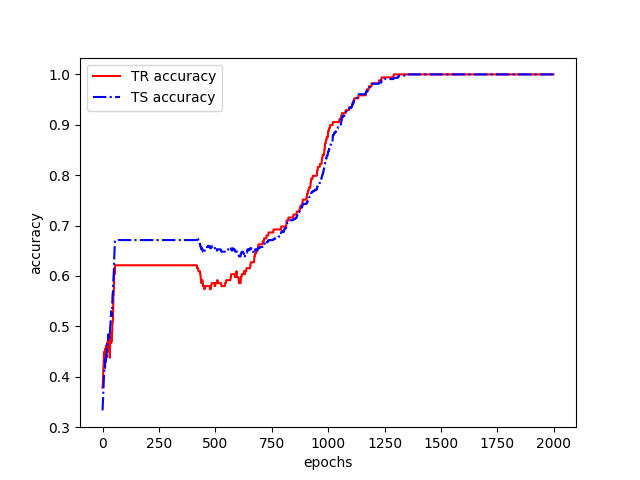
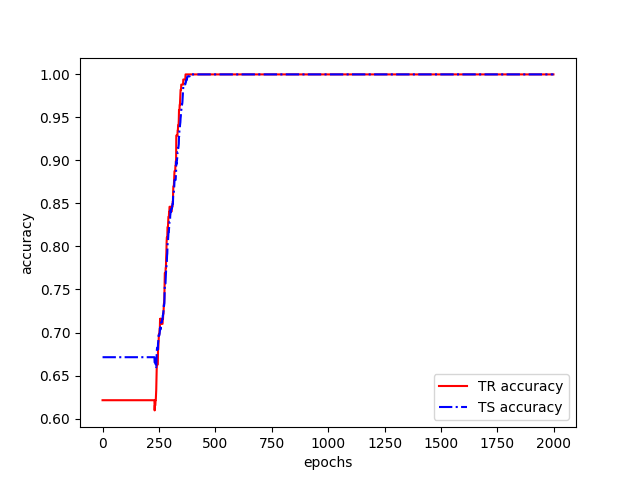
fix

diff --git a/test_cup.py b/test_cup.py
@@ -6,7 +6,7 @@ from utility import write_results
 # initialize parameters
 path_tr = 'data/cup/ML-CUP19-TR.csv'
 path_ts = 'data/cup/ML-CUP19-TS.csv'
-path_result_randomsearch = 'out/monks/monk2/randomsearch.csv'
+path_result_randomsearch = 'out/cup/randomsearch.csv'
 path_err = 'out/cup/mse_cup'
 path_acc = 'out/cup/mee_cup'
 path_result_bestmodel = 'out/cup/results.csv'
@@ -42,7 +42,7 @@ model.add_input_layer(dim_in, dim_hid, f, fan_in)
 model.add_hidden_layer(dim_hid2, f, fan_in)
 model.add_output_layer(dim_out, out_f, fan_in)
 
-best_model = random_search(model, tr, vl, ts, max_evals=16, path_results=path_result_randomsearch, verbose=True, n_threads=7)
+best_model = random_search(model, tr, vl, ts, max_evals=16, path_results=path_result_randomsearch, verbose=True, n_threads=8)
 
 err_tr, acc_tr = best_model.predict_dataset(tr)
 err_ts, acc_ts = best_model.predict_dataset(ts)
@@ -55,4 +55,4 @@ res = {
 }
 
 save = (path_err, path_acc, path_result_bestmodel)
-write_results(res, best_model, save=None)
+write_results(res, best_model, save=None, all=True)

diff --git a/utility.py b/utility.py
@@ -1,13 +1,21 @@
 import pandas as pd
 
 
-def write_results(res, best_model, save=None):
+def write_results(res, best_model, save=None, all=False):
     results = pd.DataFrame(res, index=['Training set', 'Test set'])
     print(results)
-    best_model.show_all_err()
-    best_model.show_all_acc()
+    if all:
+        best_model.show_all_err()
+        best_model.show_all_acc()
+    else:
+        best_model.show_trts_err()
+        best_model.show_trts_acc()
     if save is not None:
         path_err, path_acc, path_result_bestmodel = save
         results.to_csv(path_result_bestmodel, index=True)
-        best_model.save_all_err(path_err)
-        best_model.save_all_acc(path_acc)
+        if all:
+            best_model.save_all_err(path_err)
+            best_model.save_all_acc(path_acc)
+        else:
+            best_model.save_trts_err(path_err)
+            best_model.save_trts_acc(path_acc)
